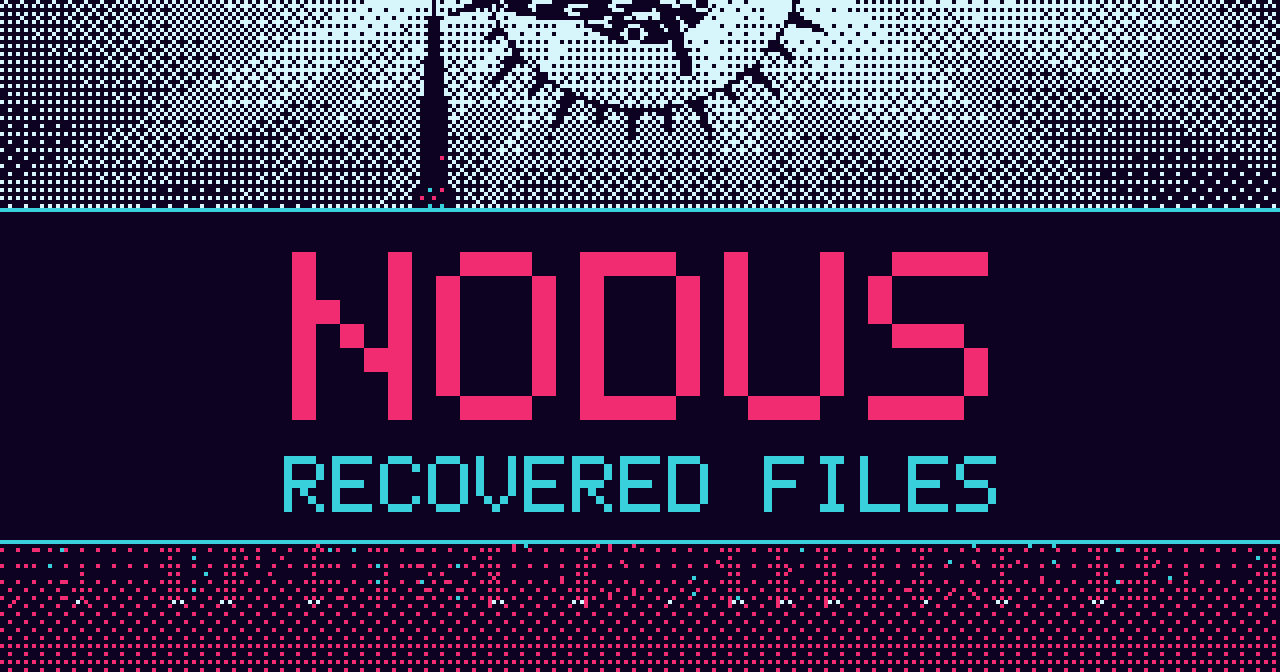
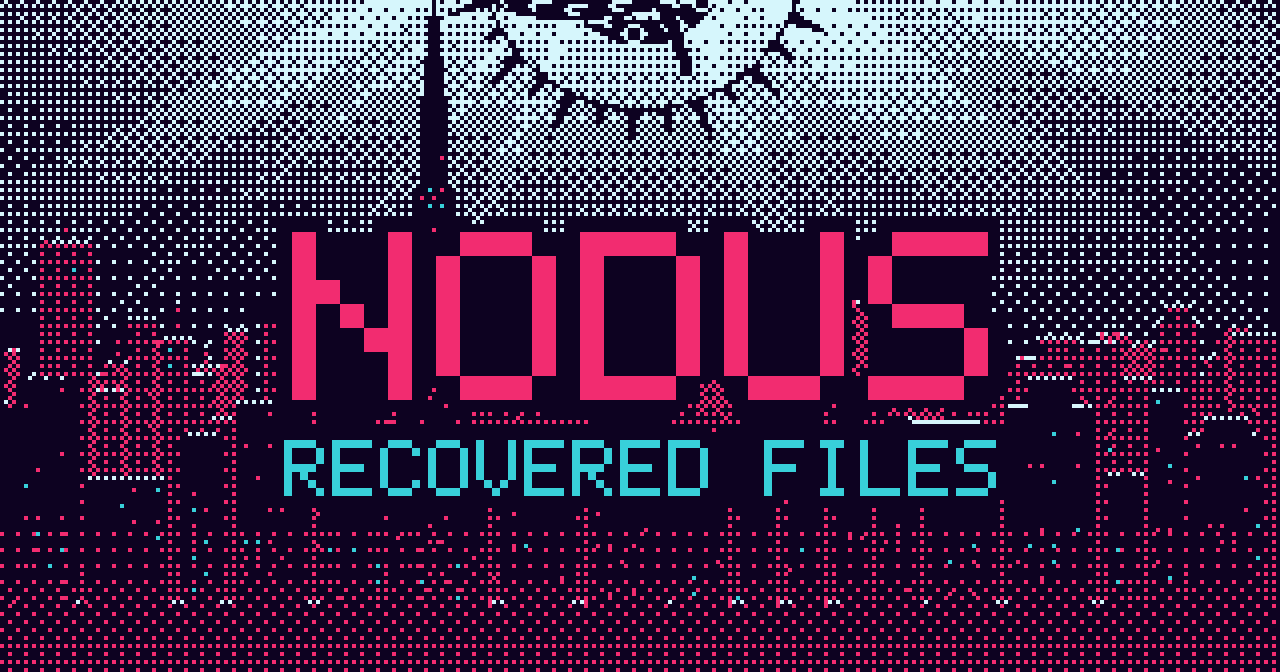
NODUS: the share images lettered without a band
The name and each file's lines sit straight on the city with a void
outline, counters closed, and no stray light beside a letter.

Claude-Session: https://claude.ai/code/session_01RmqsgtzbeMY1XCnqCXTgZF

diff --git a/index.html b/index.html
@@ -21,7 +21,7 @@
 <meta property="og:title" content="NODUS // ARCHIVE">
 <meta property="og:description" content="Recovered files from Nodus. The files, notes on each, a survey of the city, and the Record.">
 <meta property="og:url" content="https://nodusarchive.net/">
-<meta property="og:image" content="https://nodusarchive.net/assets/og/nodus.7278cfaa7a.png">
+<meta property="og:image" content="https://nodusarchive.net/assets/og/nodus.0a9a2540ff.png">
 <meta property="og:image:type" content="image/png">
 <meta property="og:image:width" content="1280">
 <meta property="og:image:height" content="672">
@@ -32,7 +32,7 @@
 <meta name="twitter:creator" content="@nodus_archive">
 <meta name="twitter:title" content="NODUS // ARCHIVE">
 <meta name="twitter:description" content="Recovered files from Nodus. The files, notes on each, a survey of the city, and the Record.">
-<meta name="twitter:image" content="https://nodusarchive.net/assets/og/nodus.7278cfaa7a.png">
+<meta name="twitter:image" content="https://nodusarchive.net/assets/og/nodus.0a9a2540ff.png">
 <meta name="twitter:image:alt" content="NODUS and RECOVERED FILES in pixel type over the city at night, the Wheel above Babel Exchange.">
 <link rel="me" href="https://x.com/nodus_archive">
 <link rel="me" href="https://www.youtube.com/@nodus.archive">
@@ -44,7 +44,7 @@
 <script>(function(){var h=location.hash,m,t=null;if(!h)return;if(/^#(files|notes|commentary)$/.test(h))t="files/";else if((m=h.match(/^#[nf]-(\d{4})$/))&&["0001", "0002", "0003"].indexOf(m[1])>-1)t="files/"+m[1]+"/";else if(h==="#map"||h==="#ix-places")t="map/";else if(h==="#record")t="record/";else if((m=h.match(/^#ch-([ivx]+)$/))&&["i", "ii", "iii", "iv", "v", "vi", "vii", "viii", "ix", "x", "xi", "xii", "xiii", "xiv", "xv", "xvi", "xvii", "xviii", "xix", "xx", "xxi", "xxii"].indexOf(m[1])>-1)t="record/"+m[1]+"/";else if(h==="#index")t="index/";else if(m=h.match(/^#ix-(timeline|factions|characters|terms)$/))t="index/"+m[1]+"/";else if(h==="#ix-companies")t="index/corporations/";if(t)location.replace(t);})();</script>
 <link rel="preload" as="image" href="assets/hero.png">
 <link rel="preload" as="script" href="assets/nodus.fb49ee8c8c.js">
-<script type="application/ld+json">{"@context":"https://schema.org","@graph":[{"@type":"WebSite","@id":"https://nodusarchive.net/#site","url":"https://nodusarchive.net/","name":"NODUS","description":"Recovered files from Nodus. The files, notes on each, a survey of the city, and the Record.","inLanguage":"en"},{"@type":"CreativeWorkSeries","@id":"https://nodusarchive.net/#series","name":"NODUS","url":"https://nodusarchive.net/","image":"https://nodusarchive.net/assets/og/nodus.7278cfaa7a.png","description":"Recovered files from Nodus.","sameAs":["https://www.youtube.com/@nodus.archive","https://www.tiktok.com/@nodus.archive","https://www.instagram.com/nodus.archive/","https://www.facebook.com/nodus.archive","https://x.com/nodus_archive"]}]}</script>
+<script type="application/ld+json">{"@context":"https://schema.org","@graph":[{"@type":"WebSite","@id":"https://nodusarchive.net/#site","url":"https://nodusarchive.net/","name":"NODUS","description":"Recovered files from Nodus. The files, notes on each, a survey of the city, and the Record.","inLanguage":"en"},{"@type":"CreativeWorkSeries","@id":"https://nodusarchive.net/#series","name":"NODUS","url":"https://nodusarchive.net/","image":"https://nodusarchive.net/assets/og/nodus.0a9a2540ff.png","description":"Recovered files from Nodus.","sameAs":["https://www.youtube.com/@nodus.archive","https://www.tiktok.com/@nodus.archive","https://www.instagram.com/nodus.archive/","https://www.facebook.com/nodus.archive","https://x.com/nodus_archive"]}]}</script>
 </head>
 <body data-page="home" data-root="">
 <a class="skip px" href="#main">SKIP TO THE TEXT</a>

diff --git a/files/0002/index.html b/files/0002/index.html
@@ -21,7 +21,7 @@
 <meta property="og:title" content="NODUS // 0002 // The Seam">
 <meta property="og:description" content="Two years before the sky opened, a machine in Nodus found a second hand in scripture. SEAM RECOVERY&#x27;s notes on NODUS // 0002.">
 <meta property="og:url" content="https://nodusarchive.net/files/0002/">
-<meta property="og:image" content="https://nodusarchive.net/assets/og/0002.7a9a48d74f.png">
+<meta property="og:image" content="https://nodusarchive.net/assets/og/0002.eb6e211ae0.png">
 <meta property="og:image:type" content="image/png">
 <meta property="og:image:width" content="1280">
 <meta property="og:image:height" content="672">
@@ -32,7 +32,7 @@
 <meta name="twitter:creator" content="@nodus_archive">
 <meta name="twitter:title" content="NODUS // 0002 // The Seam">
 <meta name="twitter:description" content="Two years before the sky opened, a machine in Nodus found a second hand in scripture. SEAM RECOVERY&#x27;s notes on NODUS // 0002.">
-<meta name="twitter:image" content="https://nodusarchive.net/assets/og/0002.7a9a48d74f.png">
+<meta name="twitter:image" content="https://nodusarchive.net/assets/og/0002.eb6e211ae0.png">
 <meta name="twitter:image:alt" content="NODUS // 0002 // THE SEAM, beside a frame of the file: CAM V3-2 // 03:12:45:07.">
 <link rel="preconnect" href="https://fonts.googleapis.com">
 <link rel="preconnect" href="https://fonts.gstatic.com" crossorigin>
@@ -41,7 +41,7 @@
 <link rel="stylesheet" href="../../assets/site.bd57cfacfc.css">
 <link rel="preload" as="script" href="../../assets/nodus.fb49ee8c8c.js">
 <script type="application/ld+json">{"@context":"https://schema.org","@type":"BreadcrumbList","itemListElement":[{"@type":"ListItem","position":1,"name":"NODUS","item":"https://nodusarchive.net/"},{"@type":"ListItem","position":2,"name":"FILES","item":"https://nodusarchive.net/files/"},{"@type":"ListItem","position":3,"name":"NODUS // 0002","item":"https://nodusarchive.net/files/0002/"}]}</script>
-<script type="application/ld+json">{"@context":"https://schema.org","@type":"Episode","@id":"https://nodusarchive.net/files/0002/#file","name":"NODUS // 0002 // The Seam","episodeNumber":2,"description":"Two years before the sky opened, a machine in Nodus found a second hand in scripture.","url":"https://nodusarchive.net/files/0002/","inLanguage":"en","image":["https://nodusarchive.net/assets/og/0002.7a9a48d74f.png","https://nodusarchive.net/assets/f/0002-374.png"],"partOfSeries":{"@type":"CreativeWorkSeries","@id":"https://nodusarchive.net/#series","name":"NODUS","url":"https://nodusarchive.net/"},"publisher":{"@type":"Organization","name":"NODUS","url":"https://nodusarchive.net/","logo":{"@type":"ImageObject","url":"https://nodusarchive.net/icon-512.png","width":512,"height":512}},"sameAs":["https://www.youtube.com/shorts/iKVUdbwU7J0"]}</script>
+<script type="application/ld+json">{"@context":"https://schema.org","@type":"Episode","@id":"https://nodusarchive.net/files/0002/#file","name":"NODUS // 0002 // The Seam","episodeNumber":2,"description":"Two years before the sky opened, a machine in Nodus found a second hand in scripture.","url":"https://nodusarchive.net/files/0002/","inLanguage":"en","image":["https://nodusarchive.net/assets/og/0002.eb6e211ae0.png","https://nodusarchive.net/assets/f/0002-374.png"],"partOfSeries":{"@type":"CreativeWorkSeries","@id":"https://nodusarchive.net/#series","name":"NODUS","url":"https://nodusarchive.net/"},"publisher":{"@type":"Organization","name":"NODUS","url":"https://nodusarchive.net/","logo":{"@type":"ImageObject","url":"https://nodusarchive.net/icon-512.png","width":512,"height":512}},"sameAs":["https://www.youtube.com/shorts/iKVUdbwU7J0"]}</script>
 </head>
 <body data-page="file" data-root="../../">
 <a class="skip px" href="#main">SKIP TO THE TEXT</a>

diff --git a/files/0003/index.html b/files/0003/index.html
@@ -21,7 +21,7 @@
 <meta property="og:title" content="NODUS // 0003 // The Harvest">
 <meta property="og:description" content="Three years after the sky opened, the ripe of Nodus rose into the light. SEAM RECOVERY&#x27;s notes on NODUS // 0003.">
 <meta property="og:url" content="https://nodusarchive.net/files/0003/">
-<meta property="og:image" content="https://nodusarchive.net/assets/og/0003.06d6192804.png">
+<meta property="og:image" content="https://nodusarchive.net/assets/og/0003.da9156b57e.png">
 <meta property="og:image:type" content="image/png">
 <meta property="og:image:width" content="1280">
 <meta property="og:image:height" content="672">
@@ -32,7 +32,7 @@
 <meta name="twitter:creator" content="@nodus_archive">
 <meta name="twitter:title" content="NODUS // 0003 // The Harvest">
 <meta name="twitter:description" content="Three years after the sky opened, the ripe of Nodus rose into the light. SEAM RECOVERY&#x27;s notes on NODUS // 0003.">
-<meta name="twitter:image" content="https://nodusarchive.net/assets/og/0003.06d6192804.png">
+<meta name="twitter:image" content="https://nodusarchive.net/assets/og/0003.da9156b57e.png">
 <meta name="twitter:image:alt" content="NODUS // 0003 // THE HARVEST, beside a frame of the file: vesper // LENS // 03:13:05:03.">
 <link rel="preconnect" href="https://fonts.googleapis.com">
 <link rel="preconnect" href="https://fonts.gstatic.com" crossorigin>
@@ -41,7 +41,7 @@
 <link rel="stylesheet" href="../../assets/site.bd57cfacfc.css">
 <link rel="preload" as="script" href="../../assets/nodus.fb49ee8c8c.js">
 <script type="application/ld+json">{"@context":"https://schema.org","@type":"BreadcrumbList","itemListElement":[{"@type":"ListItem","position":1,"name":"NODUS","item":"https://nodusarchive.net/"},{"@type":"ListItem","position":2,"name":"FILES","item":"https://nodusarchive.net/files/"},{"@type":"ListItem","position":3,"name":"NODUS // 0003","item":"https://nodusarchive.net/files/0003/"}]}</script>
-<script type="application/ld+json">{"@context":"https://schema.org","@type":"Episode","@id":"https://nodusarchive.net/files/0003/#file","name":"NODUS // 0003 // The Harvest","episodeNumber":3,"description":"Three years after the sky opened, the ripe of Nodus rose into the light.","url":"https://nodusarchive.net/files/0003/","inLanguage":"en","image":["https://nodusarchive.net/assets/og/0003.06d6192804.png","https://nodusarchive.net/assets/f/0003-380.png"],"partOfSeries":{"@type":"CreativeWorkSeries","@id":"https://nodusarchive.net/#series","name":"NODUS","url":"https://nodusarchive.net/"},"publisher":{"@type":"Organization","name":"NODUS","url":"https://nodusarchive.net/","logo":{"@type":"ImageObject","url":"https://nodusarchive.net/icon-512.png","width":512,"height":512}},"sameAs":["https://www.youtube.com/shorts/zYK76nX6rVU"]}</script>
+<script type="application/ld+json">{"@context":"https://schema.org","@type":"Episode","@id":"https://nodusarchive.net/files/0003/#file","name":"NODUS // 0003 // The Harvest","episodeNumber":3,"description":"Three years after the sky opened, the ripe of Nodus rose into the light.","url":"https://nodusarchive.net/files/0003/","inLanguage":"en","image":["https://nodusarchive.net/assets/og/0003.da9156b57e.png","https://nodusarchive.net/assets/f/0003-380.png"],"partOfSeries":{"@type":"CreativeWorkSeries","@id":"https://nodusarchive.net/#series","name":"NODUS","url":"https://nodusarchive.net/"},"publisher":{"@type":"Organization","name":"NODUS","url":"https://nodusarchive.net/","logo":{"@type":"ImageObject","url":"https://nodusarchive.net/icon-512.png","width":512,"height":512}},"sameAs":["https://www.youtube.com/shorts/zYK76nX6rVU"]}</script>
 </head>
 <body data-page="file" data-root="../../">
 <a class="skip px" href="#main">SKIP TO THE TEXT</a>

diff --git a/record/ix/index.html b/record/ix/index.html
@@ -21,7 +21,7 @@
 <meta property="og:title" content="IX. Of the Institute and the Machine // The Record // NODUS">
 <meta property="og:description" content="Chapter IX of the Record: Of the Institute and the Machine. The history of Nodus, from the files.">
 <meta property="og:url" content="https://nodusarchive.net/record/ix/">
-<meta property="og:image" content="https://nodusarchive.net/assets/og/nodus.7278cfaa7a.png">
+<meta property="og:image" content="https://nodusarchive.net/assets/og/nodus.0a9a2540ff.png">
 <meta property="og:image:type" content="image/png">
 <meta property="og:image:width" content="1280">
 <meta property="og:image:height" content="672">
@@ -32,7 +32,7 @@
 <meta name="twitter:creator" content="@nodus_archive">
 <meta name="twitter:title" content="IX. Of the Institute and the Machine // The Record // NODUS">
 <meta name="twitter:description" content="Chapter IX of the Record: Of the Institute and the Machine. The history of Nodus, from the files.">
-<meta name="twitter:image" content="https://nodusarchive.net/assets/og/nodus.7278cfaa7a.png">
+<meta name="twitter:image" content="https://nodusarchive.net/assets/og/nodus.0a9a2540ff.png">
 <meta name="twitter:image:alt" content="NODUS and RECOVERED FILES in pixel type over the city at night, the Wheel above Babel Exchange.">
 <link rel="preconnect" href="https://fonts.googleapis.com">
 <link rel="preconnect" href="https://fonts.gstatic.com" crossorigin>
@@ -41,7 +41,7 @@
 <link rel="stylesheet" href="../../assets/site.bd57cfacfc.css">
 <link rel="preload" as="script" href="../../assets/nodus.fb49ee8c8c.js">
 <script type="application/ld+json">{"@context":"https://schema.org","@type":"BreadcrumbList","itemListElement":[{"@type":"ListItem","position":1,"name":"NODUS","item":"https://nodusarchive.net/"},{"@type":"ListItem","position":2,"name":"RECORD","item":"https://nodusarchive.net/record/"},{"@type":"ListItem","position":3,"name":"IX","item":"https://nodusarchive.net/record/ix/"}]}</script>
-<script type="application/ld+json">{"@context":"https://schema.org","@type":"Article","headline":"Of the Institute and the Machine","name":"Of the Institute and the Machine","url":"https://nodusarchive.net/record/ix/","inLanguage":"en","image":"https://nodusarchive.net/assets/og/nodus.7278cfaa7a.png","isPartOf":{"@type":"Book","@id":"https://nodusarchive.net/record/#record","name":"The Record","url":"https://nodusarchive.net/record/"},"position":9,"publisher":{"@type":"Organization","name":"NODUS","url":"https://nodusarchive.net/","logo":{"@type":"ImageObject","url":"https://nodusarchive.net/icon-512.png","width":512,"height":512}},"author":{"@type":"Organization","name":"NODUS","url":"https://nodusarchive.net/","logo":{"@type":"ImageObject","url":"https://nodusarchive.net/icon-512.png","width":512,"height":512}}}</script>
+<script type="application/ld+json">{"@context":"https://schema.org","@type":"Article","headline":"Of the Institute and the Machine","name":"Of the Institute and the Machine","url":"https://nodusarchive.net/record/ix/","inLanguage":"en","image":"https://nodusarchive.net/assets/og/nodus.0a9a2540ff.png","isPartOf":{"@type":"Book","@id":"https://nodusarchive.net/record/#record","name":"The Record","url":"https://nodusarchive.net/record/"},"position":9,"publisher":{"@type":"Organization","name":"NODUS","url":"https://nodusarchive.net/","logo":{"@type":"ImageObject","url":"https://nodusarchive.net/icon-512.png","width":512,"height":512}},"author":{"@type":"Organization","name":"NODUS","url":"https://nodusarchive.net/","logo":{"@type":"ImageObject","url":"https://nodusarchive.net/icon-512.png","width":512,"height":512}}}</script>
 </head>
 <body data-page="chapter" data-root="../../">
 <a class="skip px" href="#main">SKIP TO THE TEXT</a>

diff --git a/record/iv/index.html b/record/iv/index.html
@@ -21,7 +21,7 @@
 <meta property="og:title" content="IV. Of Cain and the First City // The Record // NODUS">
 <meta property="og:description" content="Chapter IV of the Record: Of Cain and the First City. The history of Nodus, from the files.">
 <meta property="og:url" content="https://nodusarchive.net/record/iv/">
-<meta property="og:image" content="https://nodusarchive.net/assets/og/nodus.7278cfaa7a.png">
+<meta property="og:image" content="https://nodusarchive.net/assets/og/nodus.0a9a2540ff.png">
 <meta property="og:image:type" content="image/png">
 <meta property="og:image:width" content="1280">
 <meta property="og:image:height" content="672">
@@ -32,7 +32,7 @@
 <meta name="twitter:creator" content="@nodus_archive">
 <meta name="twitter:title" content="IV. Of Cain and the First City // The Record // NODUS">
 <meta name="twitter:description" content="Chapter IV of the Record: Of Cain and the First City. The history of Nodus, from the files.">
-<meta name="twitter:image" content="https://nodusarchive.net/assets/og/nodus.7278cfaa7a.png">
+<meta name="twitter:image" content="https://nodusarchive.net/assets/og/nodus.0a9a2540ff.png">
 <meta name="twitter:image:alt" content="NODUS and RECOVERED FILES in pixel type over the city at night, the Wheel above Babel Exchange.">
 <link rel="preconnect" href="https://fonts.googleapis.com">
 <link rel="preconnect" href="https://fonts.gstatic.com" crossorigin>
@@ -41,7 +41,7 @@
 <link rel="stylesheet" href="../../assets/site.bd57cfacfc.css">
 <link rel="preload" as="script" href="../../assets/nodus.fb49ee8c8c.js">
 <script type="application/ld+json">{"@context":"https://schema.org","@type":"BreadcrumbList","itemListElement":[{"@type":"ListItem","position":1,"name":"NODUS","item":"https://nodusarchive.net/"},{"@type":"ListItem","position":2,"name":"RECORD","item":"https://nodusarchive.net/record/"},{"@type":"ListItem","position":3,"name":"IV","item":"https://nodusarchive.net/record/iv/"}]}</script>
-<script type="application/ld+json">{"@context":"https://schema.org","@type":"Article","headline":"Of Cain and the First City","name":"Of Cain and the First City","url":"https://nodusarchive.net/record/iv/","inLanguage":"en","image":"https://nodusarchive.net/assets/og/nodus.7278cfaa7a.png","isPartOf":{"@type":"Book","@id":"https://nodusarchive.net/record/#record","name":"The Record","url":"https://nodusarchive.net/record/"},"position":4,"publisher":{"@type":"Organization","name":"NODUS","url":"https://nodusarchive.net/","logo":{"@type":"ImageObject","url":"https://nodusarchive.net/icon-512.png","width":512,"height":512}},"author":{"@type":"Organization","name":"NODUS","url":"https://nodusarchive.net/","logo":{"@type":"ImageObject","url":"https://nodusarchive.net/icon-512.png","width":512,"height":512}}}</script>
+<script type="application/ld+json">{"@context":"https://schema.org","@type":"Article","headline":"Of Cain and the First City","name":"Of Cain and the First City","url":"https://nodusarchive.net/record/iv/","inLanguage":"en","image":"https://nodusarchive.net/assets/og/nodus.0a9a2540ff.png","isPartOf":{"@type":"Book","@id":"https://nodusarchive.net/record/#record","name":"The Record","url":"https://nodusarchive.net/record/"},"position":4,"publisher":{"@type":"Organization","name":"NODUS","url":"https://nodusarchive.net/","logo":{"@type":"ImageObject","url":"https://nodusarchive.net/icon-512.png","width":512,"height":512}},"author":{"@type":"Organization","name":"NODUS","url":"https://nodusarchive.net/","logo":{"@type":"ImageObject","url":"https://nodusarchive.net/icon-512.png","width":512,"height":512}}}</script>
 </head>
 <body data-page="chapter" data-root="../../">
 <a class="skip px" href="#main">SKIP TO THE TEXT</a>

diff --git a/files/0001/index.html b/files/0001/index.html
@@ -21,7 +21,7 @@
 <meta property="og:title" content="NODUS // 0001 // The Parousia">
 <meta property="og:description" content="The sky opened over Nodus at 03:12 in the morning. SEAM RECOVERY&#x27;s notes on NODUS // 0001.">
 <meta property="og:url" content="https://nodusarchive.net/files/0001/">
-<meta property="og:image" content="https://nodusarchive.net/assets/og/0001.094a18f4a2.png">
+<meta property="og:image" content="https://nodusarchive.net/assets/og/0001.2c24be41e3.png">
 <meta property="og:image:type" content="image/png">
 <meta property="og:image:width" content="1280">
 <meta property="og:image:height" content="672">
@@ -32,7 +32,7 @@
 <meta name="twitter:creator" content="@nodus_archive">
 <meta name="twitter:title" content="NODUS // 0001 // The Parousia">
 <meta name="twitter:description" content="The sky opened over Nodus at 03:12 in the morning. SEAM RECOVERY&#x27;s notes on NODUS // 0001.">
-<meta name="twitter:image" content="https://nodusarchive.net/assets/og/0001.094a18f4a2.png">
+<meta name="twitter:image" content="https://nodusarchive.net/assets/og/0001.2c24be41e3.png">
 <meta name="twitter:image:alt" content="NODUS // 0001 // THE PAROUSIA, beside a frame of the file: CAM 07 // 03:12:49:08.">
 <link rel="preconnect" href="https://fonts.googleapis.com">
 <link rel="preconnect" href="https://fonts.gstatic.com" crossorigin>
@@ -41,7 +41,7 @@
 <link rel="stylesheet" href="../../assets/site.bd57cfacfc.css">
 <link rel="preload" as="script" href="../../assets/nodus.fb49ee8c8c.js">
 <script type="application/ld+json">{"@context":"https://schema.org","@type":"BreadcrumbList","itemListElement":[{"@type":"ListItem","position":1,"name":"NODUS","item":"https://nodusarchive.net/"},{"@type":"ListItem","position":2,"name":"FILES","item":"https://nodusarchive.net/files/"},{"@type":"ListItem","position":3,"name":"NODUS // 0001","item":"https://nodusarchive.net/files/0001/"}]}</script>
-<script type="application/ld+json">{"@context":"https://schema.org","@type":"Episode","@id":"https://nodusarchive.net/files/0001/#file","name":"NODUS // 0001 // The Parousia","episodeNumber":1,"description":"The sky opened over Nodus at 03:12 in the morning.","url":"https://nodusarchive.net/files/0001/","inLanguage":"en","image":["https://nodusarchive.net/assets/og/0001.094a18f4a2.png","https://nodusarchive.net/assets/f/0001-188.png"],"partOfSeries":{"@type":"CreativeWorkSeries","@id":"https://nodusarchive.net/#series","name":"NODUS","url":"https://nodusarchive.net/"},"publisher":{"@type":"Organization","name":"NODUS","url":"https://nodusarchive.net/","logo":{"@type":"ImageObject","url":"https://nodusarchive.net/icon-512.png","width":512,"height":512}},"sameAs":["https://www.youtube.com/shorts/0q25H13Y7vY"]}</script>
+<script type="application/ld+json">{"@context":"https://schema.org","@type":"Episode","@id":"https://nodusarchive.net/files/0001/#file","name":"NODUS // 0001 // The Parousia","episodeNumber":1,"description":"The sky opened over Nodus at 03:12 in the morning.","url":"https://nodusarchive.net/files/0001/","inLanguage":"en","image":["https://nodusarchive.net/assets/og/0001.2c24be41e3.png","https://nodusarchive.net/assets/f/0001-188.png"],"partOfSeries":{"@type":"CreativeWorkSeries","@id":"https://nodusarchive.net/#series","name":"NODUS","url":"https://nodusarchive.net/"},"publisher":{"@type":"Organization","name":"NODUS","url":"https://nodusarchive.net/","logo":{"@type":"ImageObject","url":"https://nodusarchive.net/icon-512.png","width":512,"height":512}},"sameAs":["https://www.youtube.com/shorts/0q25H13Y7vY"]}</script>
 </head>
 <body data-page="file" data-root="../../">
 <a class="skip px" href="#main">SKIP TO THE TEXT</a>

diff --git a/record/xi/index.html b/record/xi/index.html
@@ -21,7 +21,7 @@
 <meta property="og:title" content="XI. Of the Parousia // The Record // NODUS">
 <meta property="og:description" content="Chapter XI of the Record: Of the Parousia. The history of Nodus, from the files.">
 <meta property="og:url" content="https://nodusarchive.net/record/xi/">
-<meta property="og:image" content="https://nodusarchive.net/assets/og/nodus.7278cfaa7a.png">
+<meta property="og:image" content="https://nodusarchive.net/assets/og/nodus.0a9a2540ff.png">
 <meta property="og:image:type" content="image/png">
 <meta property="og:image:width" content="1280">
 <meta property="og:image:height" content="672">
@@ -32,7 +32,7 @@
 <meta name="twitter:creator" content="@nodus_archive">
 <meta name="twitter:title" content="XI. Of the Parousia // The Record // NODUS">
 <meta name="twitter:description" content="Chapter XI of the Record: Of the Parousia. The history of Nodus, from the files.">
-<meta name="twitter:image" content="https://nodusarchive.net/assets/og/nodus.7278cfaa7a.png">
+<meta name="twitter:image" content="https://nodusarchive.net/assets/og/nodus.0a9a2540ff.png">
 <meta name="twitter:image:alt" content="NODUS and RECOVERED FILES in pixel type over the city at night, the Wheel above Babel Exchange.">
 <link rel="preconnect" href="https://fonts.googleapis.com">
 <link rel="preconnect" href="https://fonts.gstatic.com" crossorigin>
@@ -41,7 +41,7 @@
 <link rel="stylesheet" href="../../assets/site.bd57cfacfc.css">
 <link rel="preload" as="script" href="../../assets/nodus.fb49ee8c8c.js">
 <script type="application/ld+json">{"@context":"https://schema.org","@type":"BreadcrumbList","itemListElement":[{"@type":"ListItem","position":1,"name":"NODUS","item":"https://nodusarchive.net/"},{"@type":"ListItem","position":2,"name":"RECORD","item":"https://nodusarchive.net/record/"},{"@type":"ListItem","position":3,"name":"XI","item":"https://nodusarchive.net/record/xi/"}]}</script>
-<script type="application/ld+json">{"@context":"https://schema.org","@type":"Article","headline":"Of the Parousia","name":"Of the Parousia","url":"https://nodusarchive.net/record/xi/","inLanguage":"en","image":"https://nodusarchive.net/assets/og/nodus.7278cfaa7a.png","isPartOf":{"@type":"Book","@id":"https://nodusarchive.net/record/#record","name":"The Record","url":"https://nodusarchive.net/record/"},"position":11,"publisher":{"@type":"Organization","name":"NODUS","url":"https://nodusarchive.net/","logo":{"@type":"ImageObject","url":"https://nodusarchive.net/icon-512.png","width":512,"height":512}},"author":{"@type":"Organization","name":"NODUS","url":"https://nodusarchive.net/","logo":{"@type":"ImageObject","url":"https://nodusarchive.net/icon-512.png","width":512,"height":512}}}</script>
+<script type="application/ld+json">{"@context":"https://schema.org","@type":"Article","headline":"Of the Parousia","name":"Of the Parousia","url":"https://nodusarchive.net/record/xi/","inLanguage":"en","image":"https://nodusarchive.net/assets/og/nodus.0a9a2540ff.png","isPartOf":{"@type":"Book","@id":"https://nodusarchive.net/record/#record","name":"The Record","url":"https://nodusarchive.net/record/"},"position":11,"publisher":{"@type":"Organization","name":"NODUS","url":"https://nodusarchive.net/","logo":{"@type":"ImageObject","url":"https://nodusarchive.net/icon-512.png","width":512,"height":512}},"author":{"@type":"Organization","name":"NODUS","url":"https://nodusarchive.net/","logo":{"@type":"ImageObject","url":"https://nodusarchive.net/icon-512.png","width":512,"height":512}}}</script>
 </head>
 <body data-page="chapter" data-root="../../">
 <a class="skip px" href="#main">SKIP TO THE TEXT</a>

diff --git a/record/vii/index.html b/record/vii/index.html
@@ -21,7 +21,7 @@
 <meta property="og:title" content="VII. Of the Charter // The Record // NODUS">
 <meta property="og:description" content="Chapter VII of the Record: Of the Charter. The history of Nodus, from the files.">
 <meta property="og:url" content="https://nodusarchive.net/record/vii/">
-<meta property="og:image" content="https://nodusarchive.net/assets/og/nodus.7278cfaa7a.png">
+<meta property="og:image" content="https://nodusarchive.net/assets/og/nodus.0a9a2540ff.png">
 <meta property="og:image:type" content="image/png">
 <meta property="og:image:width" content="1280">
 <meta property="og:image:height" content="672">
@@ -32,7 +32,7 @@
 <meta name="twitter:creator" content="@nodus_archive">
 <meta name="twitter:title" content="VII. Of the Charter // The Record // NODUS">
 <meta name="twitter:description" content="Chapter VII of the Record: Of the Charter. The history of Nodus, from the files.">
-<meta name="twitter:image" content="https://nodusarchive.net/assets/og/nodus.7278cfaa7a.png">
+<meta name="twitter:image" content="https://nodusarchive.net/assets/og/nodus.0a9a2540ff.png">
 <meta name="twitter:image:alt" content="NODUS and RECOVERED FILES in pixel type over the city at night, the Wheel above Babel Exchange.">
 <link rel="preconnect" href="https://fonts.googleapis.com">
 <link rel="preconnect" href="https://fonts.gstatic.com" crossorigin>
@@ -41,7 +41,7 @@
 <link rel="stylesheet" href="../../assets/site.bd57cfacfc.css">
 <link rel="preload" as="script" href="../../assets/nodus.fb49ee8c8c.js">
 <script type="application/ld+json">{"@context":"https://schema.org","@type":"BreadcrumbList","itemListElement":[{"@type":"ListItem","position":1,"name":"NODUS","item":"https://nodusarchive.net/"},{"@type":"ListItem","position":2,"name":"RECORD","item":"https://nodusarchive.net/record/"},{"@type":"ListItem","position":3,"name":"VII","item":"https://nodusarchive.net/record/vii/"}]}</script>
-<script type="application/ld+json">{"@context":"https://schema.org","@type":"Article","headline":"Of the Charter","name":"Of the Charter","url":"https://nodusarchive.net/record/vii/","inLanguage":"en","image":"https://nodusarchive.net/assets/og/nodus.7278cfaa7a.png","isPartOf":{"@type":"Book","@id":"https://nodusarchive.net/record/#record","name":"The Record","url":"https://nodusarchive.net/record/"},"position":7,"publisher":{"@type":"Organization","name":"NODUS","url":"https://nodusarchive.net/","logo":{"@type":"ImageObject","url":"https://nodusarchive.net/icon-512.png","width":512,"height":512}},"author":{"@type":"Organization","name":"NODUS","url":"https://nodusarchive.net/","logo":{"@type":"ImageObject","url":"https://nodusarchive.net/icon-512.png","width":512,"height":512}}}</script>
+<script type="application/ld+json">{"@context":"https://schema.org","@type":"Article","headline":"Of the Charter","name":"Of the Charter","url":"https://nodusarchive.net/record/vii/","inLanguage":"en","image":"https://nodusarchive.net/assets/og/nodus.0a9a2540ff.png","isPartOf":{"@type":"Book","@id":"https://nodusarchive.net/record/#record","name":"The Record","url":"https://nodusarchive.net/record/"},"position":7,"publisher":{"@type":"Organization","name":"NODUS","url":"https://nodusarchive.net/","logo":{"@type":"ImageObject","url":"https://nodusarchive.net/icon-512.png","width":512,"height":512}},"author":{"@type":"Organization","name":"NODUS","url":"https://nodusarchive.net/","logo":{"@type":"ImageObject","url":"https://nodusarchive.net/icon-512.png","width":512,"height":512}}}</script>
 </head>
 <body data-page="chapter" data-root="../../">
 <a class="skip px" href="#main">SKIP TO THE TEXT</a>

diff --git a/record/xv/index.html b/record/xv/index.html
@@ -21,7 +21,7 @@
 <meta property="og:title" content="XV. Of the Harvest // The Record // NODUS">
 <meta property="og:description" content="Chapter XV of the Record: Of the Harvest. The history of Nodus, from the files.">
 <meta property="og:url" content="https://nodusarchive.net/record/xv/">
-<meta property="og:image" content="https://nodusarchive.net/assets/og/nodus.7278cfaa7a.png">
+<meta property="og:image" content="https://nodusarchive.net/assets/og/nodus.0a9a2540ff.png">
 <meta property="og:image:type" content="image/png">
 <meta property="og:image:width" content="1280">
 <meta property="og:image:height" content="672">
@@ -32,7 +32,7 @@
 <meta name="twitter:creator" content="@nodus_archive">
 <meta name="twitter:title" content="XV. Of the Harvest // The Record // NODUS">
 <meta name="twitter:description" content="Chapter XV of the Record: Of the Harvest. The history of Nodus, from the files.">
-<meta name="twitter:image" content="https://nodusarchive.net/assets/og/nodus.7278cfaa7a.png">
+<meta name="twitter:image" content="https://nodusarchive.net/assets/og/nodus.0a9a2540ff.png">
 <meta name="twitter:image:alt" content="NODUS and RECOVERED FILES in pixel type over the city at night, the Wheel above Babel Exchange.">
 <link rel="preconnect" href="https://fonts.googleapis.com">
 <link rel="preconnect" href="https://fonts.gstatic.com" crossorigin>
@@ -41,7 +41,7 @@
 <link rel="stylesheet" href="../../assets/site.bd57cfacfc.css">
 <link rel="preload" as="script" href="../../assets/nodus.fb49ee8c8c.js">
 <script type="application/ld+json">{"@context":"https://schema.org","@type":"BreadcrumbList","itemListElement":[{"@type":"ListItem","position":1,"name":"NODUS","item":"https://nodusarchive.net/"},{"@type":"ListItem","position":2,"name":"RECORD","item":"https://nodusarchive.net/record/"},{"@type":"ListItem","position":3,"name":"XV","item":"https://nodusarchive.net/record/xv/"}]}</script>
-<script type="application/ld+json">{"@context":"https://schema.org","@type":"Article","headline":"Of the Harvest","name":"Of the Harvest","url":"https://nodusarchive.net/record/xv/","inLanguage":"en","image":"https://nodusarchive.net/assets/og/nodus.7278cfaa7a.png","isPartOf":{"@type":"Book","@id":"https://nodusarchive.net/record/#record","name":"The Record","url":"https://nodusarchive.net/record/"},"position":15,"publisher":{"@type":"Organization","name":"NODUS","url":"https://nodusarchive.net/","logo":{"@type":"ImageObject","url":"https://nodusarchive.net/icon-512.png","width":512,"height":512}},"author":{"@type":"Organization","name":"NODUS","url":"https://nodusarchive.net/","logo":{"@type":"ImageObject","url":"https://nodusarchive.net/icon-512.png","width":512,"height":512}}}</script>
+<script type="application/ld+json">{"@context":"https://schema.org","@type":"Article","headline":"Of the Harvest","name":"Of the Harvest","url":"https://nodusarchive.net/record/xv/","inLanguage":"en","image":"https://nodusarchive.net/assets/og/nodus.0a9a2540ff.png","isPartOf":{"@type":"Book","@id":"https://nodusarchive.net/record/#record","name":"The Record","url":"https://nodusarchive.net/record/"},"position":15,"publisher":{"@type":"Organization","name":"NODUS","url":"https://nodusarchive.net/","logo":{"@type":"ImageObject","url":"https://nodusarchive.net/icon-512.png","width":512,"height":512}},"author":{"@type":"Organization","name":"NODUS","url":"https://nodusarchive.net/","logo":{"@type":"ImageObject","url":"https://nodusarchive.net/icon-512.png","width":512,"height":512}}}</script>
 </head>
 <body data-page="chapter" data-root="../../">
 <a class="skip px" href="#main">SKIP TO THE TEXT</a>

diff --git a/record/viii/index.html b/record/viii/index.html
@@ -21,7 +21,7 @@
 <meta property="og:title" content="VIII. Of Babel // The Record // NODUS">
 <meta property="og:description" content="Chapter VIII of the Record: Of Babel. The history of Nodus, from the files.">
 <meta property="og:url" content="https://nodusarchive.net/record/viii/">
-<meta property="og:image" content="https://nodusarchive.net/assets/og/nodus.7278cfaa7a.png">
+<meta property="og:image" content="https://nodusarchive.net/assets/og/nodus.0a9a2540ff.png">
 <meta property="og:image:type" content="image/png">
 <meta property="og:image:width" content="1280">
 <meta property="og:image:height" content="672">
@@ -32,7 +32,7 @@
 <meta name="twitter:creator" content="@nodus_archive">
 <meta name="twitter:title" content="VIII. Of Babel // The Record // NODUS">
 <meta name="twitter:description" content="Chapter VIII of the Record: Of Babel. The history of Nodus, from the files.">
-<meta name="twitter:image" content="https://nodusarchive.net/assets/og/nodus.7278cfaa7a.png">
+<meta name="twitter:image" content="https://nodusarchive.net/assets/og/nodus.0a9a2540ff.png">
 <meta name="twitter:image:alt" content="NODUS and RECOVERED FILES in pixel type over the city at night, the Wheel above Babel Exchange.">
 <link rel="preconnect" href="https://fonts.googleapis.com">
 <link rel="preconnect" href="https://fonts.gstatic.com" crossorigin>
@@ -41,7 +41,7 @@
 <link rel="stylesheet" href="../../assets/site.bd57cfacfc.css">
 <link rel="preload" as="script" href="../../assets/nodus.fb49ee8c8c.js">
 <script type="application/ld+json">{"@context":"https://schema.org","@type":"BreadcrumbList","itemListElement":[{"@type":"ListItem","position":1,"name":"NODUS","item":"https://nodusarchive.net/"},{"@type":"ListItem","position":2,"name":"RECORD","item":"https://nodusarchive.net/record/"},{"@type":"ListItem","position":3,"name":"VIII","item":"https://nodusarchive.net/record/viii/"}]}</script>
-<script type="application/ld+json">{"@context":"https://schema.org","@type":"Article","headline":"Of Babel","name":"Of Babel","url":"https://nodusarchive.net/record/viii/","inLanguage":"en","image":"https://nodusarchive.net/assets/og/nodus.7278cfaa7a.png","isPartOf":{"@type":"Book","@id":"https://nodusarchive.net/record/#record","name":"The Record","url":"https://nodusarchive.net/record/"},"position":8,"publisher":{"@type":"Organization","name":"NODUS","url":"https://nodusarchive.net/","logo":{"@type":"ImageObject","url":"https://nodusarchive.net/icon-512.png","width":512,"height":512}},"author":{"@type":"Organization","name":"NODUS","url":"https://nodusarchive.net/","logo":{"@type":"ImageObject","url":"https://nodusarchive.net/icon-512.png","width":512,"height":512}}}</script>
+<script type="application/ld+json">{"@context":"https://schema.org","@type":"Article","headline":"Of Babel","name":"Of Babel","url":"https://nodusarchive.net/record/viii/","inLanguage":"en","image":"https://nodusarchive.net/assets/og/nodus.0a9a2540ff.png","isPartOf":{"@type":"Book","@id":"https://nodusarchive.net/record/#record","name":"The Record","url":"https://nodusarchive.net/record/"},"position":8,"publisher":{"@type":"Organization","name":"NODUS","url":"https://nodusarchive.net/","logo":{"@type":"ImageObject","url":"https://nodusarchive.net/icon-512.png","width":512,"height":512}},"author":{"@type":"Organization","name":"NODUS","url":"https://nodusarchive.net/","logo":{"@type":"ImageObject","url":"https://nodusarchive.net/icon-512.png","width":512,"height":512}}}</script>
 </head>
 <body data-page="chapter" data-root="../../">
 <a class="skip px" href="#main">SKIP TO THE TEXT</a>

diff --git a/record/iii/index.html b/record/iii/index.html
@@ -21,7 +21,7 @@
 <meta property="og:title" content="III. Of Eden // The Record // NODUS">
 <meta property="og:description" content="Chapter III of the Record: Of Eden. The history of Nodus, from the files.">
 <meta property="og:url" content="https://nodusarchive.net/record/iii/">
-<meta property="og:image" content="https://nodusarchive.net/assets/og/nodus.7278cfaa7a.png">
+<meta property="og:image" content="https://nodusarchive.net/assets/og/nodus.0a9a2540ff.png">
 <meta property="og:image:type" content="image/png">
 <meta property="og:image:width" content="1280">
 <meta property="og:image:height" content="672">
@@ -32,7 +32,7 @@
 <meta name="twitter:creator" content="@nodus_archive">
 <meta name="twitter:title" content="III. Of Eden // The Record // NODUS">
 <meta name="twitter:description" content="Chapter III of the Record: Of Eden. The history of Nodus, from the files.">
-<meta name="twitter:image" content="https://nodusarchive.net/assets/og/nodus.7278cfaa7a.png">
+<meta name="twitter:image" content="https://nodusarchive.net/assets/og/nodus.0a9a2540ff.png">
 <meta name="twitter:image:alt" content="NODUS and RECOVERED FILES in pixel type over the city at night, the Wheel above Babel Exchange.">
 <link rel="preconnect" href="https://fonts.googleapis.com">
 <link rel="preconnect" href="https://fonts.gstatic.com" crossorigin>
@@ -41,7 +41,7 @@
 <link rel="stylesheet" href="../../assets/site.bd57cfacfc.css">
 <link rel="preload" as="script" href="../../assets/nodus.fb49ee8c8c.js">
 <script type="application/ld+json">{"@context":"https://schema.org","@type":"BreadcrumbList","itemListElement":[{"@type":"ListItem","position":1,"name":"NODUS","item":"https://nodusarchive.net/"},{"@type":"ListItem","position":2,"name":"RECORD","item":"https://nodusarchive.net/record/"},{"@type":"ListItem","position":3,"name":"III","item":"https://nodusarchive.net/record/iii/"}]}</script>
-<script type="application/ld+json">{"@context":"https://schema.org","@type":"Article","headline":"Of Eden","name":"Of Eden","url":"https://nodusarchive.net/record/iii/","inLanguage":"en","image":"https://nodusarchive.net/assets/og/nodus.7278cfaa7a.png","isPartOf":{"@type":"Book","@id":"https://nodusarchive.net/record/#record","name":"The Record","url":"https://nodusarchive.net/record/"},"position":3,"publisher":{"@type":"Organization","name":"NODUS","url":"https://nodusarchive.net/","logo":{"@type":"ImageObject","url":"https://nodusarchive.net/icon-512.png","width":512,"height":512}},"author":{"@type":"Organization","name":"NODUS","url":"https://nodusarchive.net/","logo":{"@type":"ImageObject","url":"https://nodusarchive.net/icon-512.png","width":512,"height":512}}}</script>
+<script type="application/ld+json">{"@context":"https://schema.org","@type":"Article","headline":"Of Eden","name":"Of Eden","url":"https://nodusarchive.net/record/iii/","inLanguage":"en","image":"https://nodusarchive.net/assets/og/nodus.0a9a2540ff.png","isPartOf":{"@type":"Book","@id":"https://nodusarchive.net/record/#record","name":"The Record","url":"https://nodusarchive.net/record/"},"position":3,"publisher":{"@type":"Organization","name":"NODUS","url":"https://nodusarchive.net/","logo":{"@type":"ImageObject","url":"https://nodusarchive.net/icon-512.png","width":512,"height":512}},"author":{"@type":"Organization","name":"NODUS","url":"https://nodusarchive.net/","logo":{"@type":"ImageObject","url":"https://nodusarchive.net/icon-512.png","width":512,"height":512}}}</script>
 </head>
 <body data-page="chapter" data-root="../../">
 <a class="skip px" href="#main">SKIP TO THE TEXT</a>

diff --git a/map/index.html b/map/index.html
@@ -21,7 +21,7 @@
 <meta property="og:title" content="Map of Nod // NODUS">
 <meta property="og:description" content="A survey of Nodus: its districts, the places where the files were made, and what lies under the streets.">
 <meta property="og:url" content="https://nodusarchive.net/map/">
-<meta property="og:image" content="https://nodusarchive.net/assets/og/nodus.7278cfaa7a.png">
+<meta property="og:image" content="https://nodusarchive.net/assets/og/nodus.0a9a2540ff.png">
 <meta property="og:image:type" content="image/png">
 <meta property="og:image:width" content="1280">
 <meta property="og:image:height" content="672">
@@ -32,7 +32,7 @@
 <meta name="twitter:creator" content="@nodus_archive">
 <meta name="twitter:title" content="Map of Nod // NODUS">
 <meta name="twitter:description" content="A survey of Nodus: its districts, the places where the files were made, and what lies under the streets.">
-<meta name="twitter:image" content="https://nodusarchive.net/assets/og/nodus.7278cfaa7a.png">
+<meta name="twitter:image" content="https://nodusarchive.net/assets/og/nodus.0a9a2540ff.png">
 <meta name="twitter:image:alt" content="NODUS and RECOVERED FILES in pixel type over the city at night, the Wheel above Babel Exchange.">
 <link rel="preconnect" href="https://fonts.googleapis.com">
 <link rel="preconnect" href="https://fonts.gstatic.com" crossorigin>
@@ -42,7 +42,7 @@
 <link rel="preload" as="script" href="../assets/survey.66b31f0b4d.js">
 <link rel="preload" as="script" href="../assets/nodus.fb49ee8c8c.js">
 <script type="application/ld+json">{"@context":"https://schema.org","@type":"BreadcrumbList","itemListElement":[{"@type":"ListItem","position":1,"name":"NODUS","item":"https://nodusarchive.net/"},{"@type":"ListItem","position":2,"name":"MAP","item":"https://nodusarchive.net/map/"}]}</script>
-<script type="application/ld+json">{"@context":"https://schema.org","@type":"Map","name":"Map of Nod","url":"https://nodusarchive.net/map/","description":"A survey of Nodus: its districts, the places where the files were made, and what lies under the streets.","image":"https://nodusarchive.net/assets/og/nodus.7278cfaa7a.png","isPartOf":{"@type":"CreativeWorkSeries","@id":"https://nodusarchive.net/#series","name":"NODUS","url":"https://nodusarchive.net/"}}</script>
+<script type="application/ld+json">{"@context":"https://schema.org","@type":"Map","name":"Map of Nod","url":"https://nodusarchive.net/map/","description":"A survey of Nodus: its districts, the places where the files were made, and what lies under the streets.","image":"https://nodusarchive.net/assets/og/nodus.0a9a2540ff.png","isPartOf":{"@type":"CreativeWorkSeries","@id":"https://nodusarchive.net/#series","name":"NODUS","url":"https://nodusarchive.net/"}}</script>
 </head>
 <body data-page="map" data-root="../">
 <a class="skip px" href="#main">SKIP TO THE TEXT</a>
